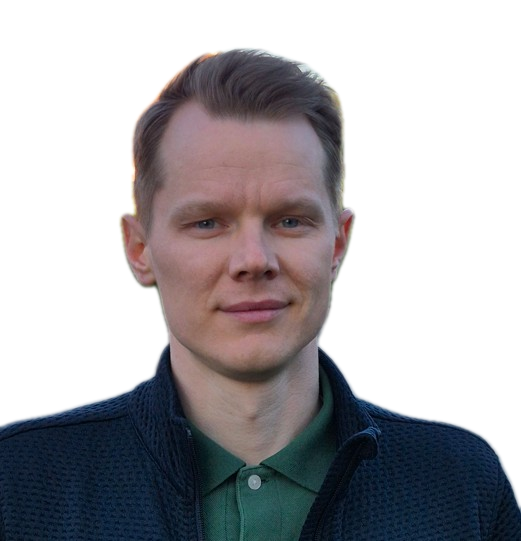
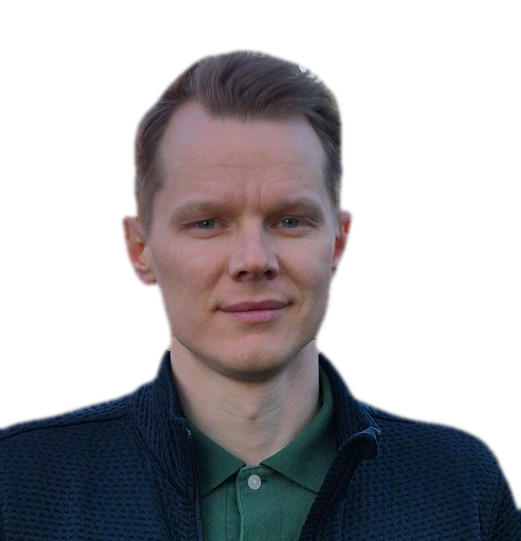
Clean portrait hair edges and remove backdrop

diff --git a/src/index.html b/src/index.html
@@ -9,7 +9,7 @@
     <meta property="og:title" content="Ruslan Lomaka – Java Backend Developer">
     <meta property="og:description" content="Java backend developer building production-ready services with Spring Boot, REST APIs, and DevOps discipline.">
     <meta property="og:image" content="photo.jpeg">
-    <link rel="stylesheet" href="styles.css?v=20260809-15">
+    <link rel="stylesheet" href="styles.css?v=20260809-16">
     <script src="main.js?v=20260809-5" defer></script>
 </head>
 

diff --git a/src/styles.css b/src/styles.css
@@ -275,6 +275,12 @@ h1 span:last-child {
     isolation: isolate;
 }
 
+.portrait-shell::before,
+.portrait-shell::after,
+.portrait-orbit {
+    display: none;
+}
+
 .portrait-shell::before {
     position: absolute;
     inset: 12px -14px -10px 14px;
